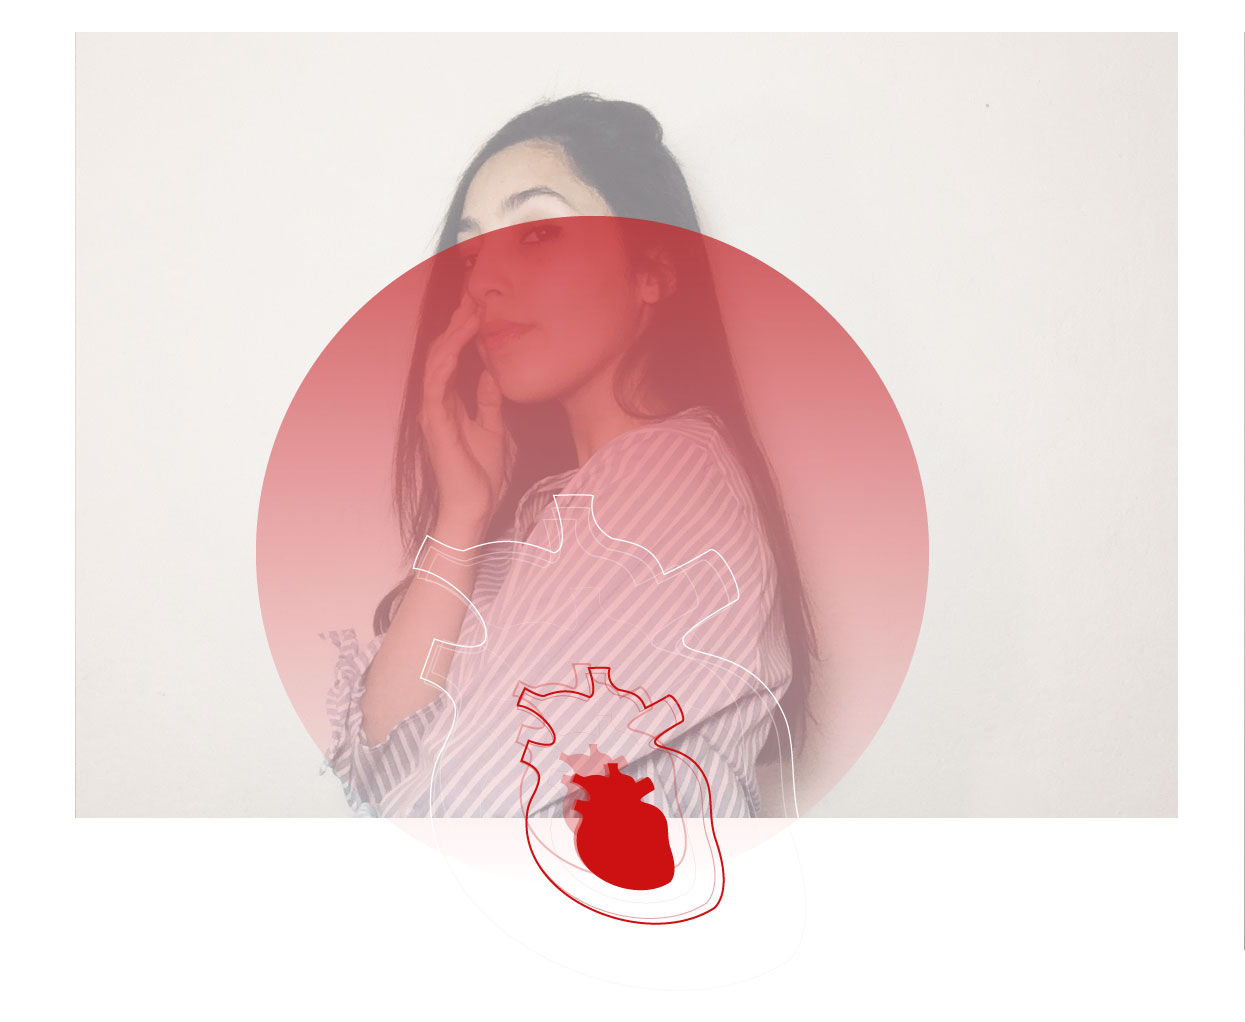
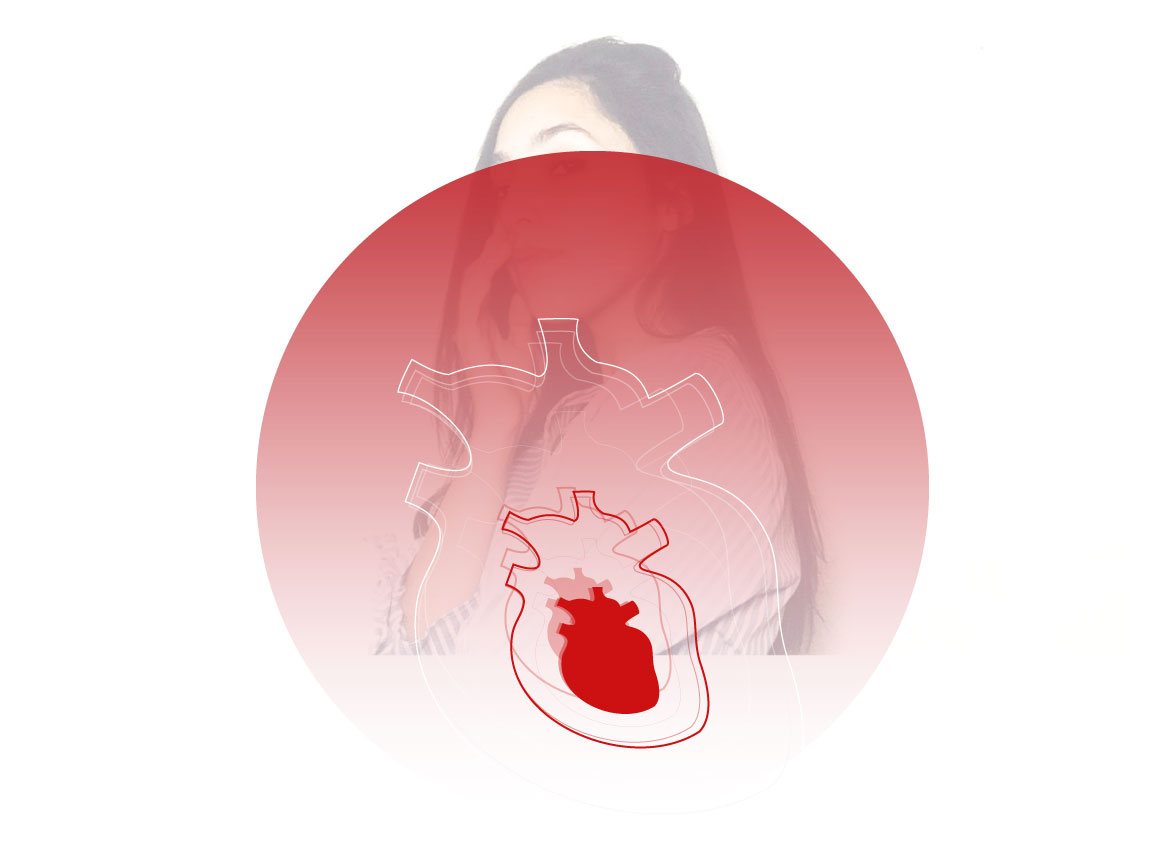
avance 01

Changed region(s): [[0.0617, 0.0305, 0.9571, 0.9144]]

diff --git a/index.html b/index.html
@@ -15,79 +15,153 @@
     <header>
        <div class="container-fluid">
         <div class="row">
-          <div class="col-2"><h5>Gfis</h5></div>
+          <div class="col-10 col-md-11">
+            <h5>Gfis</h5>
+          </div>
+          <div id="redesSociales" class="col-2 col-md-1">
+              <a href="https://www.linkedin.com/in/fernandaisla/" id="in"><i class="fab fa-linkedin-in"></i></a>
+              <a href="https://github.com/iamfernanda" id="gi"><i class="fab fa-github"></i></a>
+          </div>
         </div>
        </div>
     </header>
-
-
     <!-- Portada-->
       <div class="container-fluid">
           <div class="row">
-             <div id="menu" class="col-12 col-md-1">
+             <div id="menu" class="col-12 col-md-2">
                <nav class="navbar navbar-inverse" role="navigation">
                  <a href=""><p>Sobre mi</p></a>
                  <a href=""><p>Trabajos</p></a>
                  <a href=""><p>Contacto</p></a>
                 </nav>
               </div> 
-                <div class="col-12 col-md-10">
+                <div class="col-12 col-md-8">
                   <img src="img/portadaN.jpg" class="img-fluid"  alt="">
-                </div> 
-                <div id="redesSociales" class="col-12 col-md-1">
-                  <nav class="navbar navbar-inverse" role="navigation">
-                    <a href="https://www.linkedin.com/in/fernandaisla/" id="in"><i class="fab fa-linkedin-in"></i></a><br>
-                    <a href="https://github.com/iamfernanda" id="gi"><i class="fab fa-github"></i></a><br>
-                  </nav>
                 </div> 
           </div>
       </div>
-    <!--Espacio entre secciones-->
-    <!-- <div class="row">
-        <div class="col-12"></div>
-          <div id="espacio"></div>
-        </div> 
-    </div>  -->
-
+      <div id="espacio" class="container-fluid"></div>
   <!-- TRABAJOS -->
-    <div id="trabajos" class="row">
-       <div class="col-12 col-md-2">
+    <div id="trabajos" class="container-fluid">
+      <div class="row justify-content-center">
+       <div class="col-12">
          <h2>TRABAJOS</h2>
-     </div>
-        <!-- PRIMER TRABAJO GROUPIE MERCH -->
-        <div id="groupieMerch" class="container-fluid">
-           <div class="row">
+      </div>
+         <div id="groupieMerch">
              <div class="col-12">
-               
+                <div class="text-white">
+                    <img class="card-img" src="img/GroupieMerch/0001 .jpg" alt="">
+                    <div class="card-img-overlay">
+                      <h5 class="card-title">E-Commerce</h5>
+                      <!-- <p class="card-text">Proyecto en el marco académico realizado para un emprendimiento de merchandising de bandas musicales.</p> -->
+                     <!-- Button trigger modal -->
+                     <div class="row justify-content-between">
+                        <div class="col-4">
+                        </div>
+                    <button type="button" class="btn btn-outline-secondary" data-toggle="modal" data-target="#exampleModal">
+                    ver más
+                    </button>
+                      <!-- Modal -->
+                      <div class="modal fade" id="exampleModal" tabindex="-1" role="dialog" aria-labelledby="exampleModalLabel" aria-hidden="true">
+                        <div class="modal-dialog" role="document">
+                          <div class="modal-content">
+                            <div class="modal-header">
+                              <h5 class="modal-title" id="exampleModalLabel">GROUPIE MERCH</h5>
+                              <button type="button" class="close" data-dismiss="modal" aria-label="Close">
+                                <span aria-hidden="true">&times;</span>
+                              </button>
+                            </div>
+                            <div class="modal-body">
+                              <img src="img/GroupieMerch/grupie001.jpg" width="100%" alt="">
+                              <p>Un emprendimiento joven con solo meses de funcionamiento, dedicados al merchandising de bandas musicales con un estilo muy marcado al rock pop. En la actualidad sus canales de difusión y ventas son solo a través de redes sociales. Con la necesidad de potenciar  aun más su negocio nuestro encargo fue el crear un site e-commerce, la plaforma debía ajustarse a los requerimientos de publico objetivo, brindar una navegación intuitiva hasta la finalización del proceso de compra generando la mayor información y autonomía al usuario.
+
+                                  Esto lo conseguimos implementando arquitectura de la información (AI), Ademas de diseñar la linea gráfica fiel al estilo del emprendimiento, luego realizamos testing para validar nuestra propuesta.
+                              </p>
+                            </div>
+                          </div>
+                        </div>
+                      </div>
+                    </div>
+                </div>
+            </div>
           </div>
-          </div>
+              <div class="col-12">
+                 <div class="text-white">
+                     <img class="card-img" src="img/GroupieMerch/0001 .jpg" alt="">
+                     <div class="card-img-overlay">
+                       <h5 class="card-title">E-Commerce</h5>
+                       <!-- <p class="card-text">Proyecto en el marco académico realizado para un emprendimiento de merchandising de bandas musicales.</p> -->
+                      <!-- Button trigger modal -->
+                      <div class="row justify-content-between">
+                         <div class="col-4">
+                         </div>
+                     <button type="button" class="btn btn-outline-secondary" data-toggle="modal" data-target="#exampleModal">
+                     ver más
+                     </button>
+                       <!-- Modal -->
+                       <div class="modal fade" id="exampleModal" tabindex="-1" role="dialog" aria-labelledby="exampleModalLabel" aria-hidden="true">
+                         <div class="modal-dialog" role="document">
+                           <div class="modal-content">
+                             <div class="modal-header">
+                               <h5 class="modal-title" id="exampleModalLabel">GROUPIE MERCH</h5>
+                               <button type="button" class="close" data-dismiss="modal" aria-label="Close">
+                                 <span aria-hidden="true">&times;</span>
+                               </button>
+                             </div>
+                             <div class="modal-body">
+                               <img src="img/GroupieMerch/grupie001.jpg" width="100%" alt="">
+                               <p>Un emprendimiento joven con solo meses de funcionamiento, dedicados al merchandising de bandas musicales con un estilo muy marcado al rock pop. En la actualidad sus canales de difusión y ventas son solo a través de redes sociales. Con la necesidad de potenciar  aun más su negocio nuestro encargo fue el crear un site e-commerce, la plaforma debía ajustarse a los requerimientos de publico objetivo, brindar una navegación intuitiva hasta la finalización del proceso de compra generando la mayor información y autonomía al usuario.
+ 
+                                   Esto lo conseguimos implementando arquitectura de la información (AI), Ademas de diseñar la linea gráfica fiel al estilo del emprendimiento, luego realizamos testing para validar nuestra propuesta.
+                               </p>
+                             </div>
+                           </div>
+                         </div>
+                       </div>
+                     </div>
+                 </div>
+             </div>
         </div>
-        <div class="card-columns">
-            <div class="card">
-              <img class="card-img-top" src="img/GroupieMerch/1.jpg" alt="Card image cap">
-              <div class="card-body">
-                <h5 class="card-title">GROPIE MERCH</h5>
-                <p class="card-text">Primer proyecto en el marco academico realizado para un emprendimiento de merchandising de bandas musicales GROUPIE MERCH. </p>
-              </div>
+        <div class="col-12">
+            <div class="text-white">
+                <img class="card-img" src="img/GroupieMerch/0001 .jpg" alt="">
+                <div class="card-img-overlay">
+                  <h5 class="card-title">E-Commerce</h5>
+                  <!-- <p class="card-text">Proyecto en el marco académico realizado para un emprendimiento de merchandising de bandas musicales.</p> -->
+                 <!-- Button trigger modal -->
+                 <div class="row justify-content-between">
+                    <div class="col-4">
+                    </div>
+                <button type="button" class="btn btn-outline-secondary" data-toggle="modal" data-target="#exampleModal">
+                ver más
+                </button>
+                  <!-- Modal -->
+                  <div class="modal fade" id="exampleModal" tabindex="-1" role="dialog" aria-labelledby="exampleModalLabel" aria-hidden="true">
+                    <div class="modal-dialog" role="document">
+                      <div class="modal-content">
+                        <div class="modal-header">
+                          <h5 class="modal-title" id="exampleModalLabel">GROUPIE MERCH</h5>
+                          <button type="button" class="close" data-dismiss="modal" aria-label="Close">
+                            <span aria-hidden="true">&times;</span>
+                          </button>
+                        </div>
+                        <div class="modal-body">
+                          <img src="img/GroupieMerch/grupie001.jpg" width="100%" alt="">
+                          <p>Un emprendimiento joven con solo meses de funcionamiento, dedicados al merchandising de bandas musicales con un estilo muy marcado al rock pop. En la actualidad sus canales de difusión y ventas son solo a través de redes sociales. Con la necesidad de potenciar  aun más su negocio nuestro encargo fue el crear un site e-commerce, la plaforma debía ajustarse a los requerimientos de publico objetivo, brindar una navegación intuitiva hasta la finalización del proceso de compra generando la mayor información y autonomía al usuario.
+
+                              Esto lo conseguimos implementando arquitectura de la información (AI), Ademas de diseñar la linea gráfica fiel al estilo del emprendimiento, luego realizamos testing para validar nuestra propuesta.
+                          </p>
+                        </div>
+                      </div>
+                    </div>
+                  </div>
+                </div>
             </div>
-            <div class="card p-3">
-              <blockquote class="blockquote mb-0 card-body">
-                <p>Lorem ipsum dolor sit amet, consectetur adipiscing elit. Integer posuere erat a ante.</p>
-                <footer class="blockquote-footer">
-                  <small class="text-muted">
-                    Someone famous in <cite title="Source Title">Source Title</cite>
-                  </small>
-                </footer>
-              </blockquote>
-            </div>
-            <div class="card">
-              <img class="card-img-top" src="img/caratulaGroupi.jpg" alt="Card image cap">
-              <div class="card-body">
-                <h5 class="card-title">Card title</h5>
-                <p class="card-text">This card has supporting text below as a natural lead-in to additional content.</p>
-                <p class="card-text"><small class="text-muted">Last updated 3 mins ago</small></p>
-              </div>
-            </div>
+        </div>
+   </div>
+      </div>
+     </div>
+        
          
             
     

diff --git a/style.css b/style.css
@@ -10,9 +10,10 @@
 #espacio{
     width:100%;
     height: 90px;
+    background: #494949;
     
 }
-/* acerca  */
+/* ACERCA DE  */
 body h2{
     margin-top: 5px;
     margin-left: 17px;
@@ -26,8 +27,7 @@ body h2{
     margin-top: 10px;
 }
 #menu p{
-
-    font-size: 13px;
+    font-size: 20px;
     text-align: left;
     font-weight: 300;
     color: #bbbbbb;  
@@ -37,15 +37,14 @@ body h2{
     background:#494949;
 }
 
-
-/* nombre */
+/* NOMBRE */
 body h5 {
     margin-top: 10px;
     margin-left: 17px;
     font-family: 'Oswald', sans-serif;
-    font-size: 20px;
+    font-size: 25px;
     color:#494949; 
-    font-weight: 400;
+    font-weight: 500;
 }
 
 body p {
@@ -54,20 +53,46 @@ body p {
     font-size: 15px;
     color:#494949; 
 }
-
+/* TRABAJOS */
 #trabajos h2 {
-    font-weight: 400; 
+    margin-top: 3em;
+    color: #bbbbbb; 
+    font-size: 30px;
+    font-weight: 300; 
 }
-
-#groupieMerch h2 {
-    text-align: right;
-    margin-right: 17px;
-}
-
-#groupieMerch img {
+/* GROUPIE MERCH */
+#groupieMerch{
     margin-left: 17px;
     width: 100%;
+    padding: 3em; 
 }
+
+#groupieMerch img{
+    margin-bottom: 10em;
+}
+
+#groupieMerch h5{
+    text-align: right;
+    color: #494949; 
+    font-size: 35px;
+}
+
+#groupieMerch p{
+    text-align:justify;
+    color: #bbbbbb; 
+    font-size: 15px;
+    
+    margin-top: 10px;
+}
+
+#groupieMerch button{
+    align-items: flex-end;
+    font-size: 15px;
+    
+    margin-top: 10px;
+}
+
+
 
 @media only screen and (max-width: 600px) {
     
